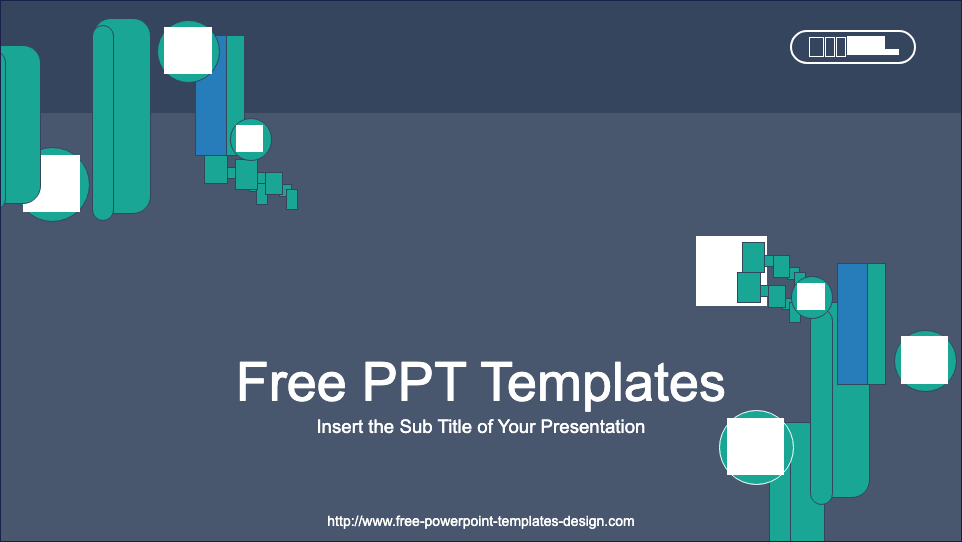
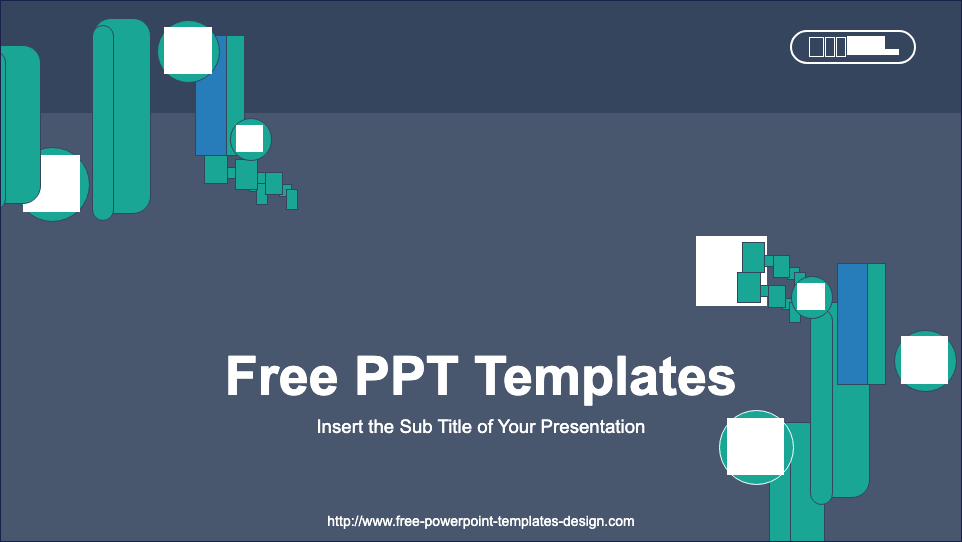
Refine cover-slide text ranking and screenshot evidence for the image-test loop
The ongoing LLM-guided image review exposed that several cover slides were still
misclassifying logo and footer elements as the primary text hierarchy, which in
turn pulled titles and subtitles into the wrong positions. This stage refines
text-bearing rank handling in the cover-slide viewer logic and refreshes the
screenshot evidence so the current image-test loop reflects the stronger title/
subtitle placement and the resulting score lift on sample1/sample5 covers.

Constraint: The sample PNG corpus remains the regression oracle, so cover-slide text hierarchy changes must be validated by regenerated screenshot artifacts
Constraint: Cover-slide ranking must consider only real text-bearing content, not decorative or media shapes
Rejected: Keep using raw shape order for title/subtitle ranking | logos and footer lines were still hijacking the hierarchy on cover slides
Rejected: Leave the regenerated screenshot evidence uncommitted during the LLM-test iteration | it would break the evidence trail for the current state
Confidence: medium
Scope-risk: narrow
Reversibility: clean
Directive: Continue deriving cover-slide hierarchy from text-bearing semantics first, then from geometry second
Tested: npm run build --workspace @ooxml/example-basic; npm run quality:ppt-sample-screenshots; sample score checks for sample1/sample5/sample6 cover slides
Not-tested: Full repo verification suite and final LLM parity on vector-heavy industrial/hero slides

Changed region(s): [[0.2183, 0.6494, 0.7796, 0.7675]]

diff --git a/examples/basic/src/main.ts b/examples/basic/src/main.ts
@@ -575,6 +575,17 @@ function enhancePresentationPreview(): void {
     && textBearingShapes.length <= 4
     && textBearingShapes.every((shape) => !shape.dataset.mediaType);
   const darkBackground = backgroundColor ? isDarkColor(backgroundColor) : true;
+  const yellowTheme = !darkBackground && ['#FFCE29', '#F2BF27'].includes((backgroundColor ?? '').toUpperCase());
+  const circleBadgeShape = titleLike
+    ? shapes.find((shape) => {
+        if (shape.dataset.shapeType !== 'ellipse' || (shape.querySelector('p')?.textContent?.trim())) {
+          return false;
+        }
+        const widthRatio = Number(shape.dataset.cx ?? 0) / cx;
+        const heightRatio = Number(shape.dataset.cy ?? 0) / cy;
+        return widthRatio > 0.2 && heightRatio > 0.2;
+      })
+    : null;
   canvas.classList.toggle('is-title-slide', titleLike && darkBackground);
   canvas.classList.toggle('is-title-slide-light', titleLike && !darkBackground);
   canvas.classList.toggle('is-content-slide', !titleLike);
@@ -589,6 +600,11 @@ function enhancePresentationPreview(): void {
     return topDiff !== 0 ? topDiff : Number(left.dataset.x ?? 0) - Number(right.dataset.x ?? 0);
   });
   const positionRank = new Map(orderedShapes.map((shape, index) => [shape, index]));
+  const textBearingOrderedShapes = orderedShapes.filter((shape) => {
+    const body = shape.querySelector('p')?.textContent?.trim() ?? '';
+    return body.length > 0 && !shape.dataset.mediaType;
+  });
+  const textBearingRank = new Map(textBearingOrderedShapes.map((shape, index) => [shape, index]));
 
   for (const [index, shape] of shapes.entries()) {
     if (shape.parentElement !== canvas) {
@@ -679,14 +695,15 @@ function enhancePresentationPreview(): void {
       const pathCommands = shape.dataset.pathCommands;
       const shouldRenderPath = Boolean(
         pathCommands
-        && titleLike
+        && ((titleLike && !darkBackground) || (yellowTheme && (x / cx) < 0.35))
         && fillColor
-        && !darkBackground
         && shape.dataset.shapeType === 'custom'
       );
       if (shouldRenderPath) {
         const svgMarkup = buildDecorativeSvg(pathCommands ?? '', fillColor, lineColor, lineWidth);
         if (svgMarkup) {
+          shape.style.background = 'transparent';
+          shape.style.border = 'none';
           shape.innerHTML = svgMarkup;
         }
       }
@@ -715,16 +732,29 @@ function enhancePresentationPreview(): void {
       if (content) {
         content.style.textAlign = 'center';
       }
-      const rank = positionRank.get(shape) ?? index;
+      const rank = textBearingRank.get(shape);
+      if (rank === undefined) {
+        continue;
+      }
       if (rank === 0) {
         shape.classList.add('kind-title');
-      } else if (rank === orderedShapes.length - 1 && y / cy > 0.75) {
+      } else if (rank === textBearingOrderedShapes.length - 1 && y / cy > 0.75) {
         shape.classList.add('kind-footer');
       } else {
         shape.classList.add('kind-subtitle');
         if (content && !textColor) {
           content.style.color = darkBackground ? '#93c5fd' : '#57A7BD';
         }
+      }
+      if (circleBadgeShape && content) {
+        const circleX = (Number(circleBadgeShape.dataset.x ?? 0) / cx) * 100;
+        const circleY = (Number(circleBadgeShape.dataset.y ?? 0) / cy) * 100;
+        const circleW = (Number(circleBadgeShape.dataset.cx ?? 0) / cx) * 100;
+        const circleH = (Number(circleBadgeShape.dataset.cy ?? 0) / cy) * 100;
+        shape.style.left = `${circleX + circleW * 0.12}%`;
+        shape.style.width = `${circleW * 0.76}%`;
+        shape.style.height = rank === 0 ? `${circleH * 0.24}%` : `${circleH * 0.18}%`;
+        shape.style.top = `${circleY + (rank === 0 ? circleH * 0.26 : circleH * 0.56)}%`;
       }
       continue;
     }
